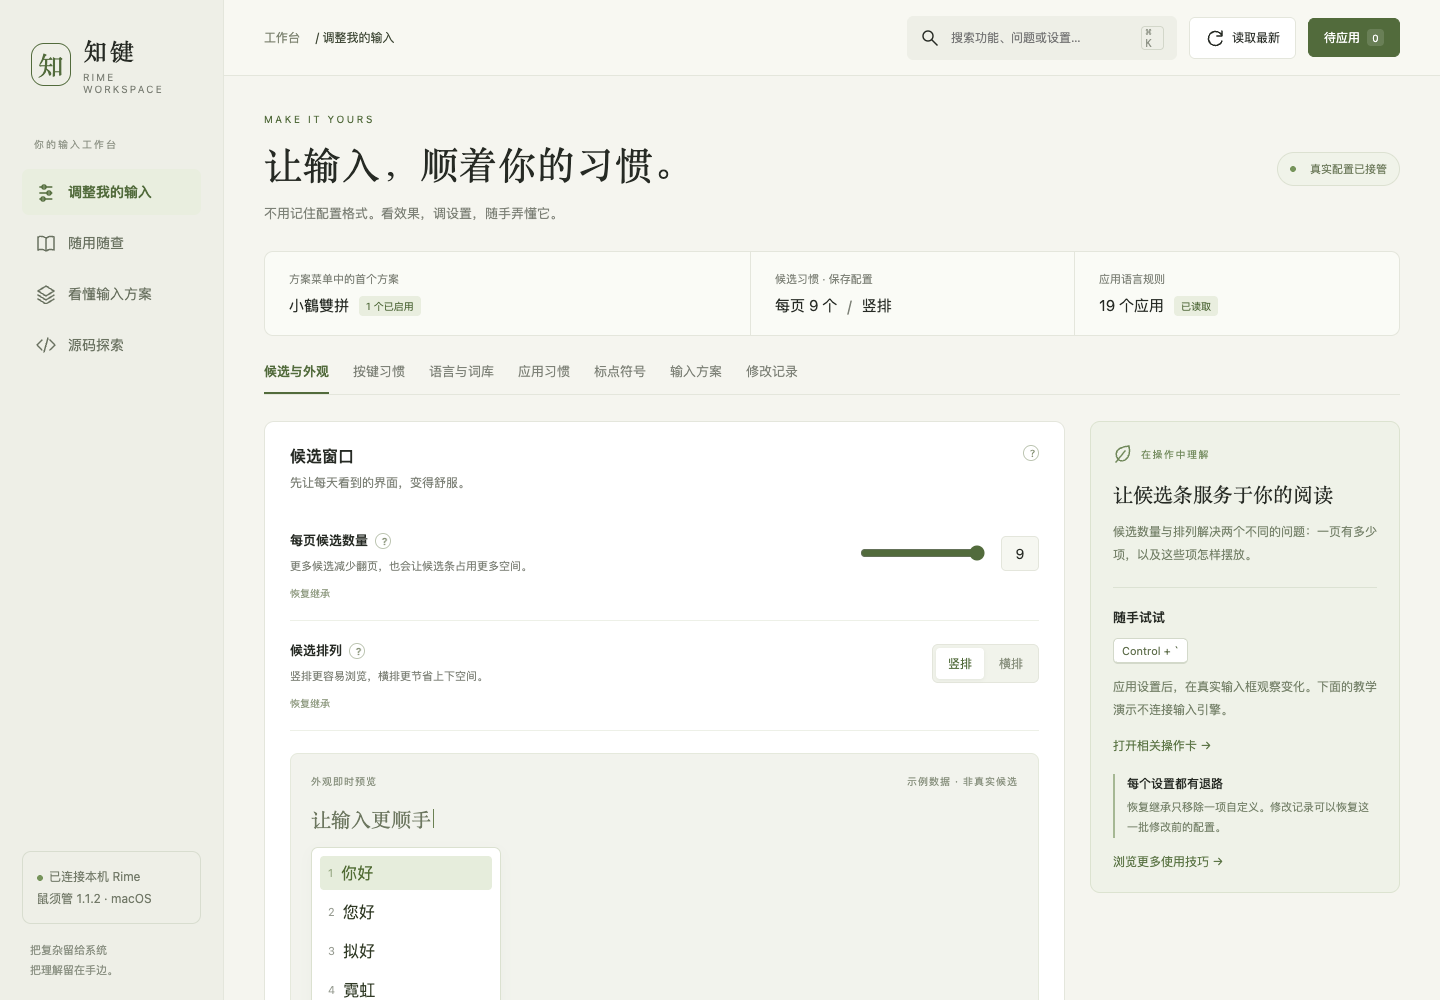
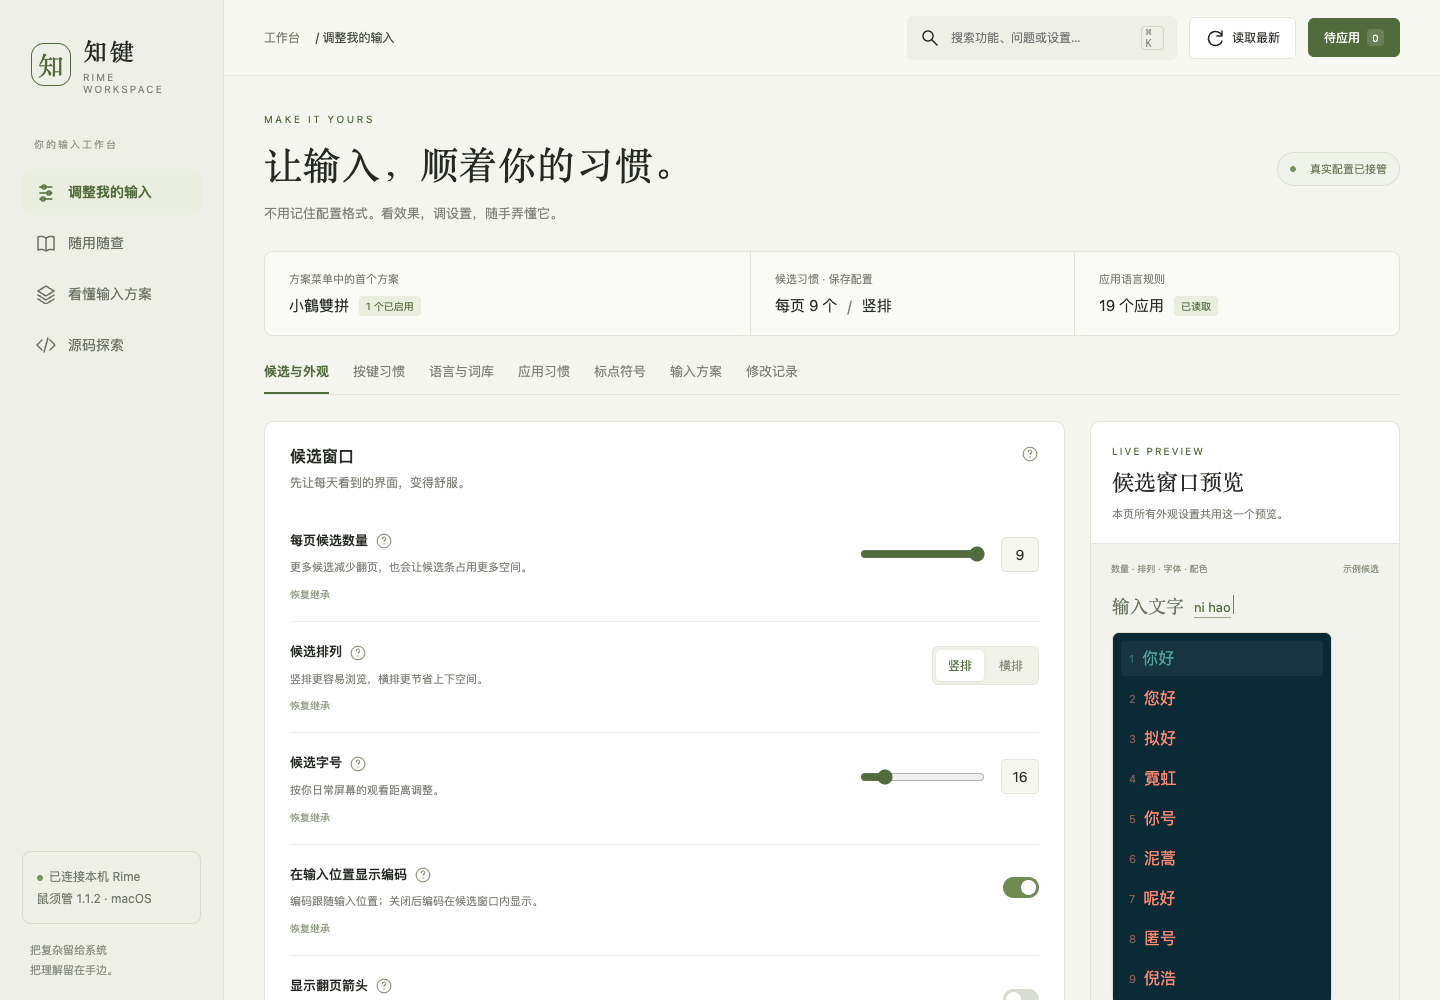
fix: make appearance preview shared and sticky

diff --git a/public/app.js b/public/app.js
@@ -40,16 +40,36 @@ function render(){
 function renderIntro(){const meta={settings:['MAKE IT YOURS','让输入，顺着你的习惯。','不用记住配置格式。看效果，调设置，随手弄懂它。'],guide:['LEARN BY DOING','需要的时候，答案就在手边。','从一个具体问题开始。功能、动作和设置，都连在一起。'],pipeline:['UNDER THE HOOD','看见一个字，是怎样被打出来的。','把真实方案拆成可探索的流程；点一个组件，看它承担什么工作。'],source:['FOLLOW THE EVIDENCE','从一个功能，走进它的实现。','文档、配方、社区线索与源码快照，共同构成一张可追溯的地图。']}[view];return `<div class="intro"><div><div class="eyebrow">${meta[0]}</div><h1>${meta[1]}</h1><p class="subtitle">${meta[2]}</p></div><div class="devicebadge"><span class="dot"></span>真实配置已接管</div></div>`;}
 function deploymentBanner(){const d=S.deployment;return d?.state!=='idle'?`<div class="statusbar"><span>${esc(d.message)}</span>${d.state!=='running'?btn('检查状态','refresh','small'):''}</div>`:savedDeployment?`<div class="statusbar"><span>配置已保存；重新部署后才会进入输入法。</span>${btn('重新部署','deploy','small primary')}</div>`:'';}
 function overview(){const sc=S.schemas.find(x=>x.id===S.enabled[0]);return `<div class="overview"><div><div class="overlabel">方案菜单中的首个方案</div><div class="overvalue">${esc(sc?.name||'未知')}<span class="tag">${S.enabled.length} 个已启用</span></div></div><div><div class="overlabel">候选习惯 · 保存配置</div><div class="overvalue">每页 ${esc(S.defaults.menu?.page_size??5)} 个 <span class="muted">/</span> ${S.squirrel.style?.candidate_list_layout==='linear'?'横排':'竖排'}</div></div><div><div class="overlabel">应用语言规则</div><div class="overvalue">${Object.keys(S.squirrel.app_options||{}).length} 个应用 <span class="tag">已读取</span></div></div></div>`;}
-function renderSettings(){return `${overview()}<div class="tabs" role="tablist">${tabs.map(([id,name])=>`<button class="tab ${tab===id?'active':''}" role="tab" aria-selected="${tab===id}" data-tab="${id}">${name}</button>`).join('')}</div>${tab==='history'?renderHistory():`<div class="workspace"><div class="leftcol">${({candidates:renderCandidates,keyboard:renderKeyboard,language:renderLanguage,apps:renderApps,punctuation:renderPunctuation,schemas:renderSchemas})[tab]()}</div>${renderContext()}</div>`}`;}
+function renderSettings(){return `${overview()}<div class="tabs" role="tablist">${tabs.map(([id,name])=>`<button class="tab ${tab===id?'active':''}" role="tab" aria-selected="${tab===id}" data-tab="${id}">${name}</button>`).join('')}</div>${tab==='history'?renderHistory():`<div class="workspace"><div class="leftcol">${({candidates:renderCandidates,keyboard:renderKeyboard,language:renderLanguage,apps:renderApps,punctuation:renderPunctuation,schemas:renderSchemas})[tab]()}</div>${tab==='candidates'?renderCandidatePreview():renderContext()}</div>`}`;}
 function renderCandidates(){const size=value('page_size'),font=value('font_size');return card('候选窗口','先让每天看到的界面，变得舒服。',
  fieldrow('page_size','每页候选数量',`<div class="range"><input type="range" aria-label="每页候选数量" min="1" max="9" value="${size}" data-range="page_size"><output class="valuebox">${size}</output></div>`,'','select')+
  fieldrow('layout','候选排列',segments('layout',[['stacked','竖排'],['linear','横排']]),'','horizontal')+
- renderCandidatePreview()+fieldrow('font_size','候选字号',`<div class="range"><input type="range" aria-label="候选字号" min="10" max="48" value="${font}" data-range="font_size"><output class="valuebox">${font}</output></div>`)+
+ fieldrow('font_size','候选字号',`<div class="range"><input type="range" aria-label="候选字号" min="10" max="48" value="${font}" data-range="font_size"><output class="valuebox">${font}</output></div>`)+
  fieldrow('inline','在输入位置显示编码',toggle('inline','在输入位置显示编码'),'','chromium')+
  fieldrow('paging','显示翻页箭头',toggle('paging','显示翻页箭头')),'select')+
  card('配色与字体','让预览帮助你选，不用猜配置里的颜色值。',`<div class="setting"><div class="settingrow"><div class="settingname">候选字体</div><form class="inlineform" id="fontform"><input type="text" name="font" aria-label="候选字体" value="${esc(value('font_face'))}" maxlength="120" style="width:155px"><button class="btn small" type="submit">加入修改</button></form></div>${reset('font_face')}</div><div class="setting"><div class="settingname">候选配色</div><div class="themechoices mt">${S.themes.map(t=>`<button class="${value('theme')===t.id?'selected':''}" data-set="theme" data-value="${esc(JSON.stringify(t.id))}">${esc(t.name.split('/')[0])}</button>`).join('')}</div>${reset('theme')}</div>`,'horizontal');}
 function color(n,fallback){if(typeof n!=='number')return fallback;const v=n>>>0;return `#${(v&255).toString(16).padStart(2,'0')}${((v>>>8)&255).toString(16).padStart(2,'0')}${((v>>>16)&255).toString(16).padStart(2,'0')}`;}
-function renderCandidatePreview(){const words=['你好','您好','拟好','霓虹','你号','泥蒿','呢好','匿号','倪浩'];const theme=S.themes.find(t=>t.id===value('theme'));return `<div class="previewbox"><div class="previewtop"><span>外观即时预览</span><span>示例数据 · 非真实候选</span></div><div class="sampletext">让输入更顺手<span class="caret"></span></div>${!value('inline')?'<p class="muted" style="font-size:12px;margin-bottom:8px">ni hao</p>':''}<div class="candidates ${value('layout')}" style="background:${color(theme?.back_color,'#fff')}">${words.slice(0,value('page_size')).map((w,i)=>`<span class="candidate ${i===0?'chosen':''}" style="font-size:${value('font_size')}px;${i===0?`background:${color(theme?.hilited_candidate_back_color,'#e6eddc')};color:${color(theme?.hilited_candidate_text_color,'#526d36')}`:`color:${color(theme?.candidate_text_color,'#303a25')}`}"><small>${i+1}</small>${w}</span>`).join('')}${value('paging')?'<span class="muted">‹ ›</span>':''}</div><p class="previewnote">预览展示排列、字号与主要颜色，系统原生配色、字体和窗口细节以真实输入法为准。</p></div>`;}
+function renderCandidatePreview(){
+ const words=['你好','您好','拟好','霓虹','你号','泥蒿','呢好','匿号','倪浩'];
+ const theme=S.themes.find(t=>t.id===value('theme'));
+ const font=esc(CSS.escape(value('font_face')||'sans-serif'));
+ return `<aside class="preview-rail" aria-label="整页候选外观预览">
+  <div class="previewhead"><div class="eyebrow">LIVE PREVIEW</div><h2>候选窗口预览</h2><p>本页所有外观设置共用这一个预览。</p></div>
+  <div class="previewbox"><div class="previewtop"><span>数量 · 排列 · 字体 · 配色</span><span>示例候选</span></div>
+   <div class="previewstage"><div class="sampletext">输入文字${value('inline')?'<span class="sample-preedit">ni hao</span>':''}<span class="caret"></span></div>
+    ${!value('inline')?'<p class="muted" style="font-size:12px;margin-bottom:8px">ni hao</p>':''}
+    <div class="candidates ${value('layout')}" style="background:${color(theme?.back_color,'#fff')};font-family:${font},sans-serif">
+     ${words.slice(0,value('page_size')).map((w,i)=>`<span class="candidate ${i===0?'chosen':''}" style="font-size:${value('font_size')}px;${i===0?`background:${color(theme?.hilited_candidate_back_color,'#e6eddc')};color:${color(theme?.hilited_candidate_text_color,'#526d36')}`:`color:${color(theme?.candidate_text_color,'#303a25')}`}"><small>${i+1}</small>${w}</span>`).join('')}
+     ${value('paging')?'<span class="muted">‹ ›</span>':''}
+    </div>
+   </div>
+  </div>
+  <div class="previewfooter"><div class="previewmeta"><span>${value('page_size')} 个候选</span><span>${value('layout')==='linear'?'横排':'竖排'}</span><span>${value('font_size')} 点</span><span>${esc(theme?.name||'系统配色')}</span></div>
+   <p class="previewnote">修改控件即可看效果，无需先保存。字体使用浏览器可用字体，原生配色与窗口细节以鼠须管为准。</p>
+   <button class="learnlink" data-article="select">选字与候选窗口的使用说明 →</button>
+  </div>
+ </aside>`;
+}
 function renderKeyboard(){const opts=[['inline_ascii','临时英文 · 回车后回中文'],['commit_text','提交候选 · 再切换英文'],['commit_code','提交编码 · 再切换英文'],['noop','不用于切换']];const select=field=>`<select aria-label="${names[field]}" data-select="${field}">${opts.map(([v,t])=>`<option value="${v}" ${value(field)===v?'selected':''}>${t}</option>`).join('')}</select>`;return card('中英文切换','控制切换时，已经输入的内容怎么处理。',fieldrow('shift_left','左 Shift',select('shift_left'),'更适合临时输入用户名、英文缩写。','switch')+fieldrow('shift_right','右 Shift',select('shift_right'),'左、右键的分辨能力以本机版本实测为准。','switch')+fieldrow('caps_lock','Caps Lock 保留大写习惯',toggle('caps_lock','Caps Lock 保留大写习惯'),'这是 good_old_caps_lock；不等于禁用 Caps Lock 的中英文切换。','switch'),'switch')+card('方案菜单','在输入时快速切换方案与字形。',`<div class="settingname">唤出菜单的按键</div><div class="schema-list mt">${[['F4','F4'],['Control+grave','Control + `'],['Control+Shift+grave','Control + Shift + `']].map(([v,t])=>`<label class="schemarow"><input type="checkbox" data-hotkey="${v}" ${(value('hotkeys')||[]).includes(v)?'checked':''}><span>${t}</span></label>`).join('')}</div>${reset('hotkeys')}`,'menu');}
 function schemaPicker(){return `<label class="settingrow"><span class="settingname">当前查看方案</span><select id="schema-picker" aria-label="当前查看方案">${S.schemas.map(s=>`<option value="${esc(s.id)}" ${s.id===schema?'selected':''}>${esc(s.name)}${S.enabled.includes(s.id)?' · 已启用':''}</option>`).join('')}</select></label>`;}
 function renderLanguage(){const sc=currentSchema(),extra={schema:sc.id};function switchRow(field,label,opts,name){const real=name==='simplification'?(sc.config.simplifier?.option_name||name):name;const found=sc.config.switches?.find(s=>s.name===real);if(!found)return `<div class="setting"><div class="settingname">${label}</div><p class="settinghint">此方案未提供这个开关。</p></div>`;return fieldrow(field,label,segments(field,opts,extra),value(field,extra)===undefined?'未指定 reset：由方案状态记忆和初始行为决定。':'reset 控制新会话；已记住的选项可能保持之前的选择。',field==='ascii'?'switch':field==='simplified'?'simplified':'fullwidth',extra);}

diff --git a/public/style.css b/public/style.css
@@ -2,3 +2,20 @@
 
 @media(max-width:650px){.navitem{flex:1;flex-direction:column;white-space:nowrap;width:auto;font-size:10px;gap:7px}.topactions{flex-wrap:wrap;gap:10px}.search{flex-basis:100%;width:100%}.topactions>.btn{flex:1}.search kbd{white-space:nowrap}}
 .source-layout>div,.codebox,.flowcolumn{min-width:0}.node small{overflow-wrap:anywhere}
+
+.preview-rail{position:sticky;top:20px;min-width:0;border:1px solid var(--line);border-radius:10px;background:#fff;overflow:hidden}
+.previewhead{padding:23px 21px 19px;border-bottom:1px solid var(--line)}
+.previewhead .eyebrow{margin-bottom:9px;letter-spacing:2px}
+.previewhead h2{font-family:var(--serif);font-size:22px;font-weight:500}
+.previewhead p{margin-top:8px;color:var(--muted);font-size:11px;line-height:1.8}
+.preview-rail .previewbox{margin:0;padding:18px 20px;border:0;border-radius:0;background:#f2f3ed}
+.preview-rail .previewtop{gap:8px;font-size:9px;letter-spacing:0;margin-bottom:18px}
+.previewstage{max-height:calc(100vh - 330px);min-height:170px;overflow:auto;padding:0 1px 3px}
+.preview-rail .sampletext{font-size:18px;white-space:nowrap}
+.sample-preedit{margin-left:10px;font-family:var(--sans);font-size:13px;color:#556c3f;border-bottom:1px solid #99aa84;padding-bottom:2px}
+.preview-rail .candidates.stacked{width:100%;max-width:220px}
+.previewfooter{padding:17px 21px 21px;border-top:1px solid var(--line)}
+.previewmeta{display:flex;flex-wrap:wrap;gap:6px}
+.previewmeta span{font-size:10px;color:#6c7d59;background:#edf1e6;border-radius:4px;padding:4px 7px}
+.previewfooter .learnlink{font-size:11px;margin-top:13px}
+@media(max-width:900px){.preview-rail{position:static;order:-1}.previewstage{max-height:250px;min-height:0}.preview-rail .candidates.stacked{max-width:100%}.previewhead{padding:19px 21px 15px}}
